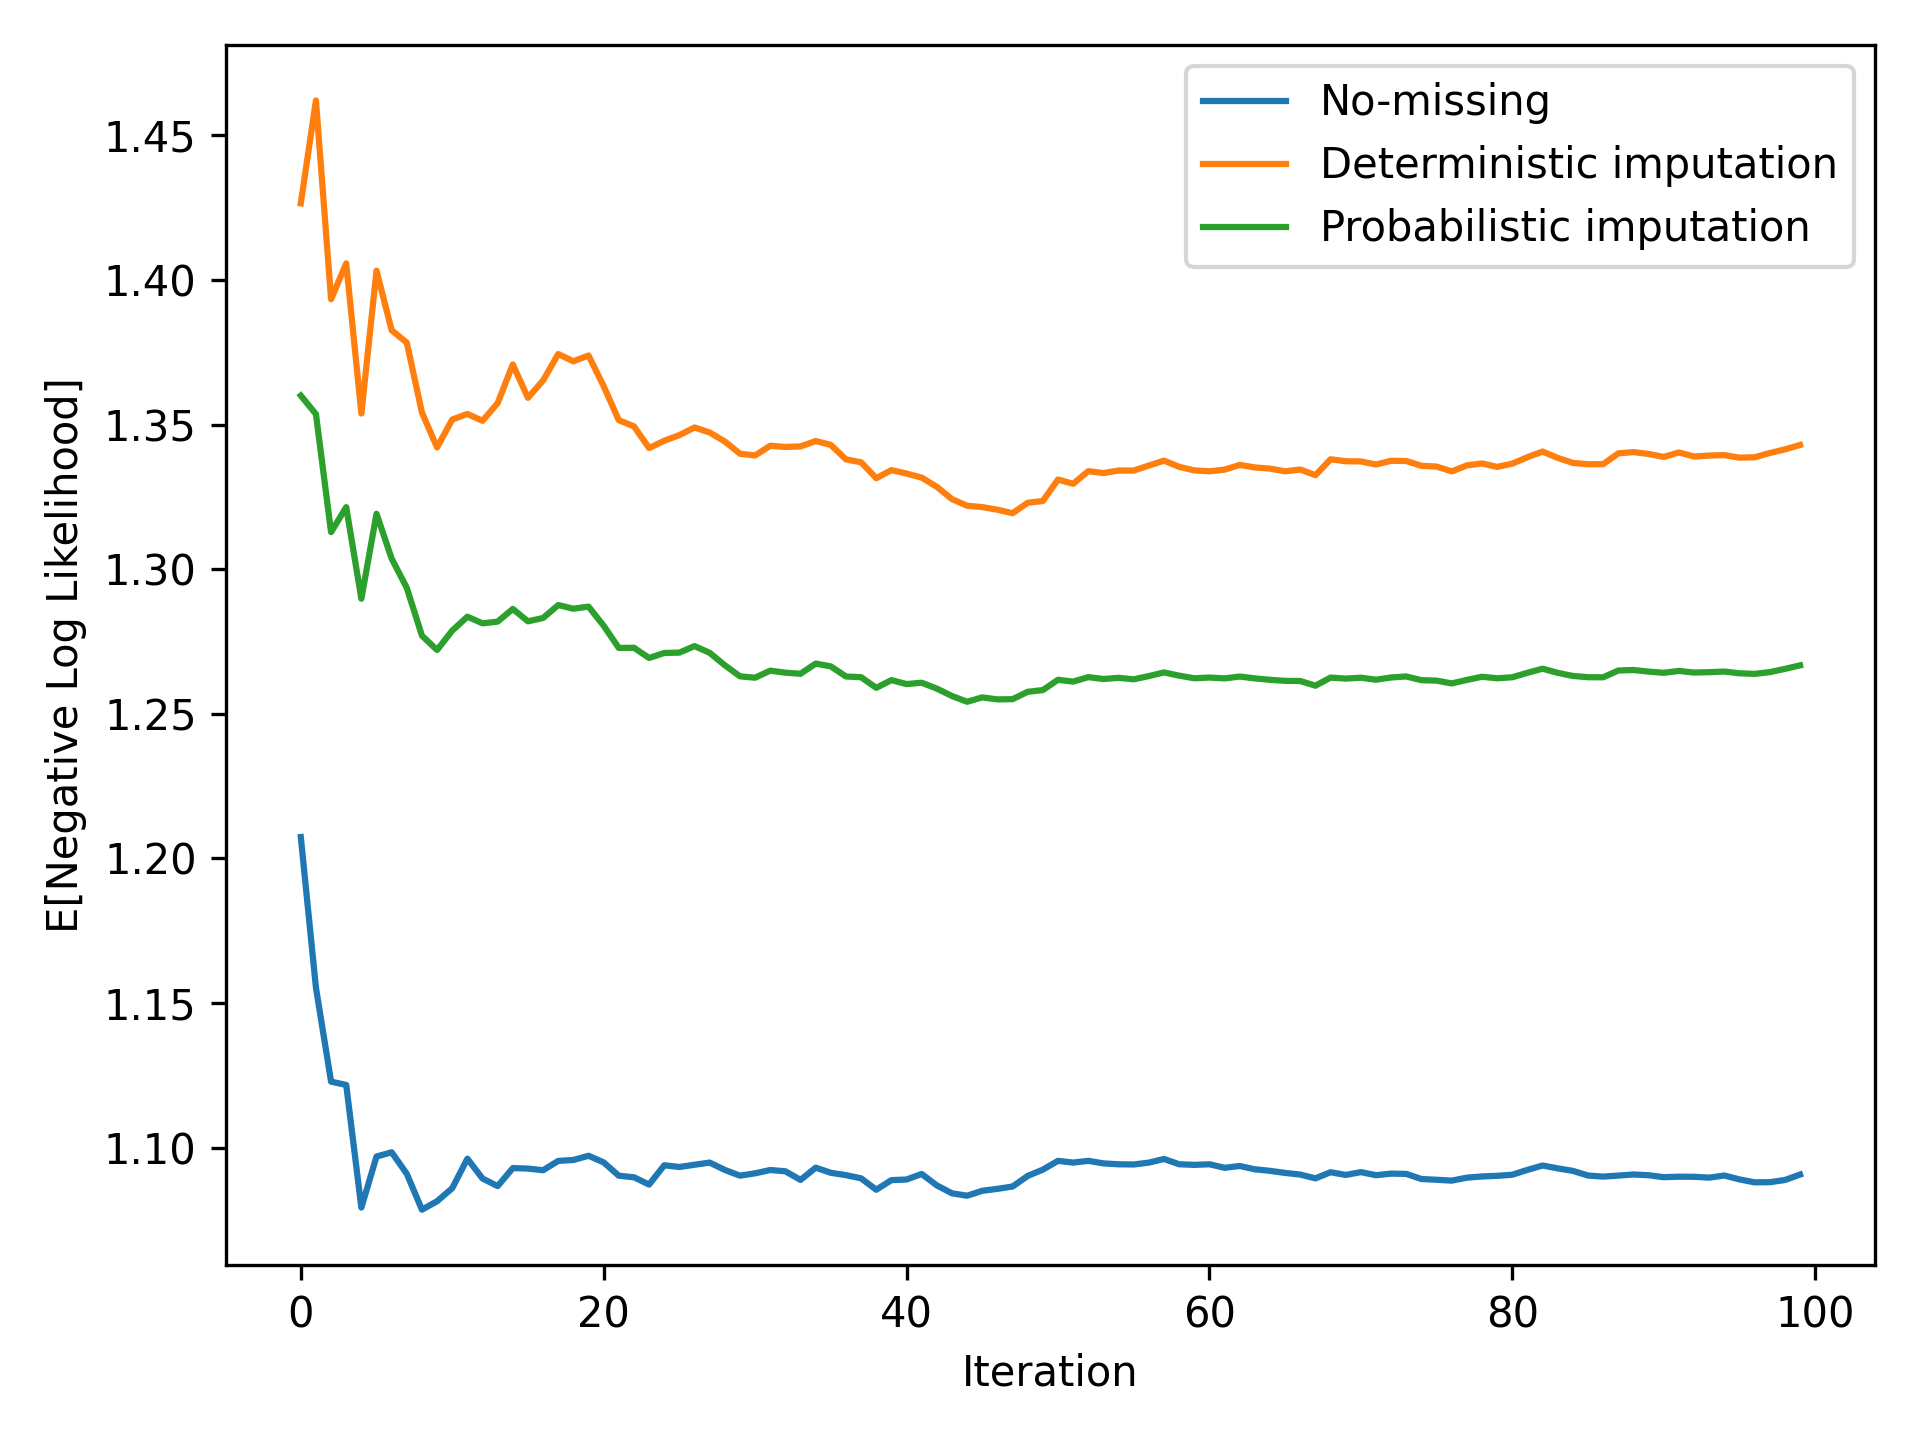
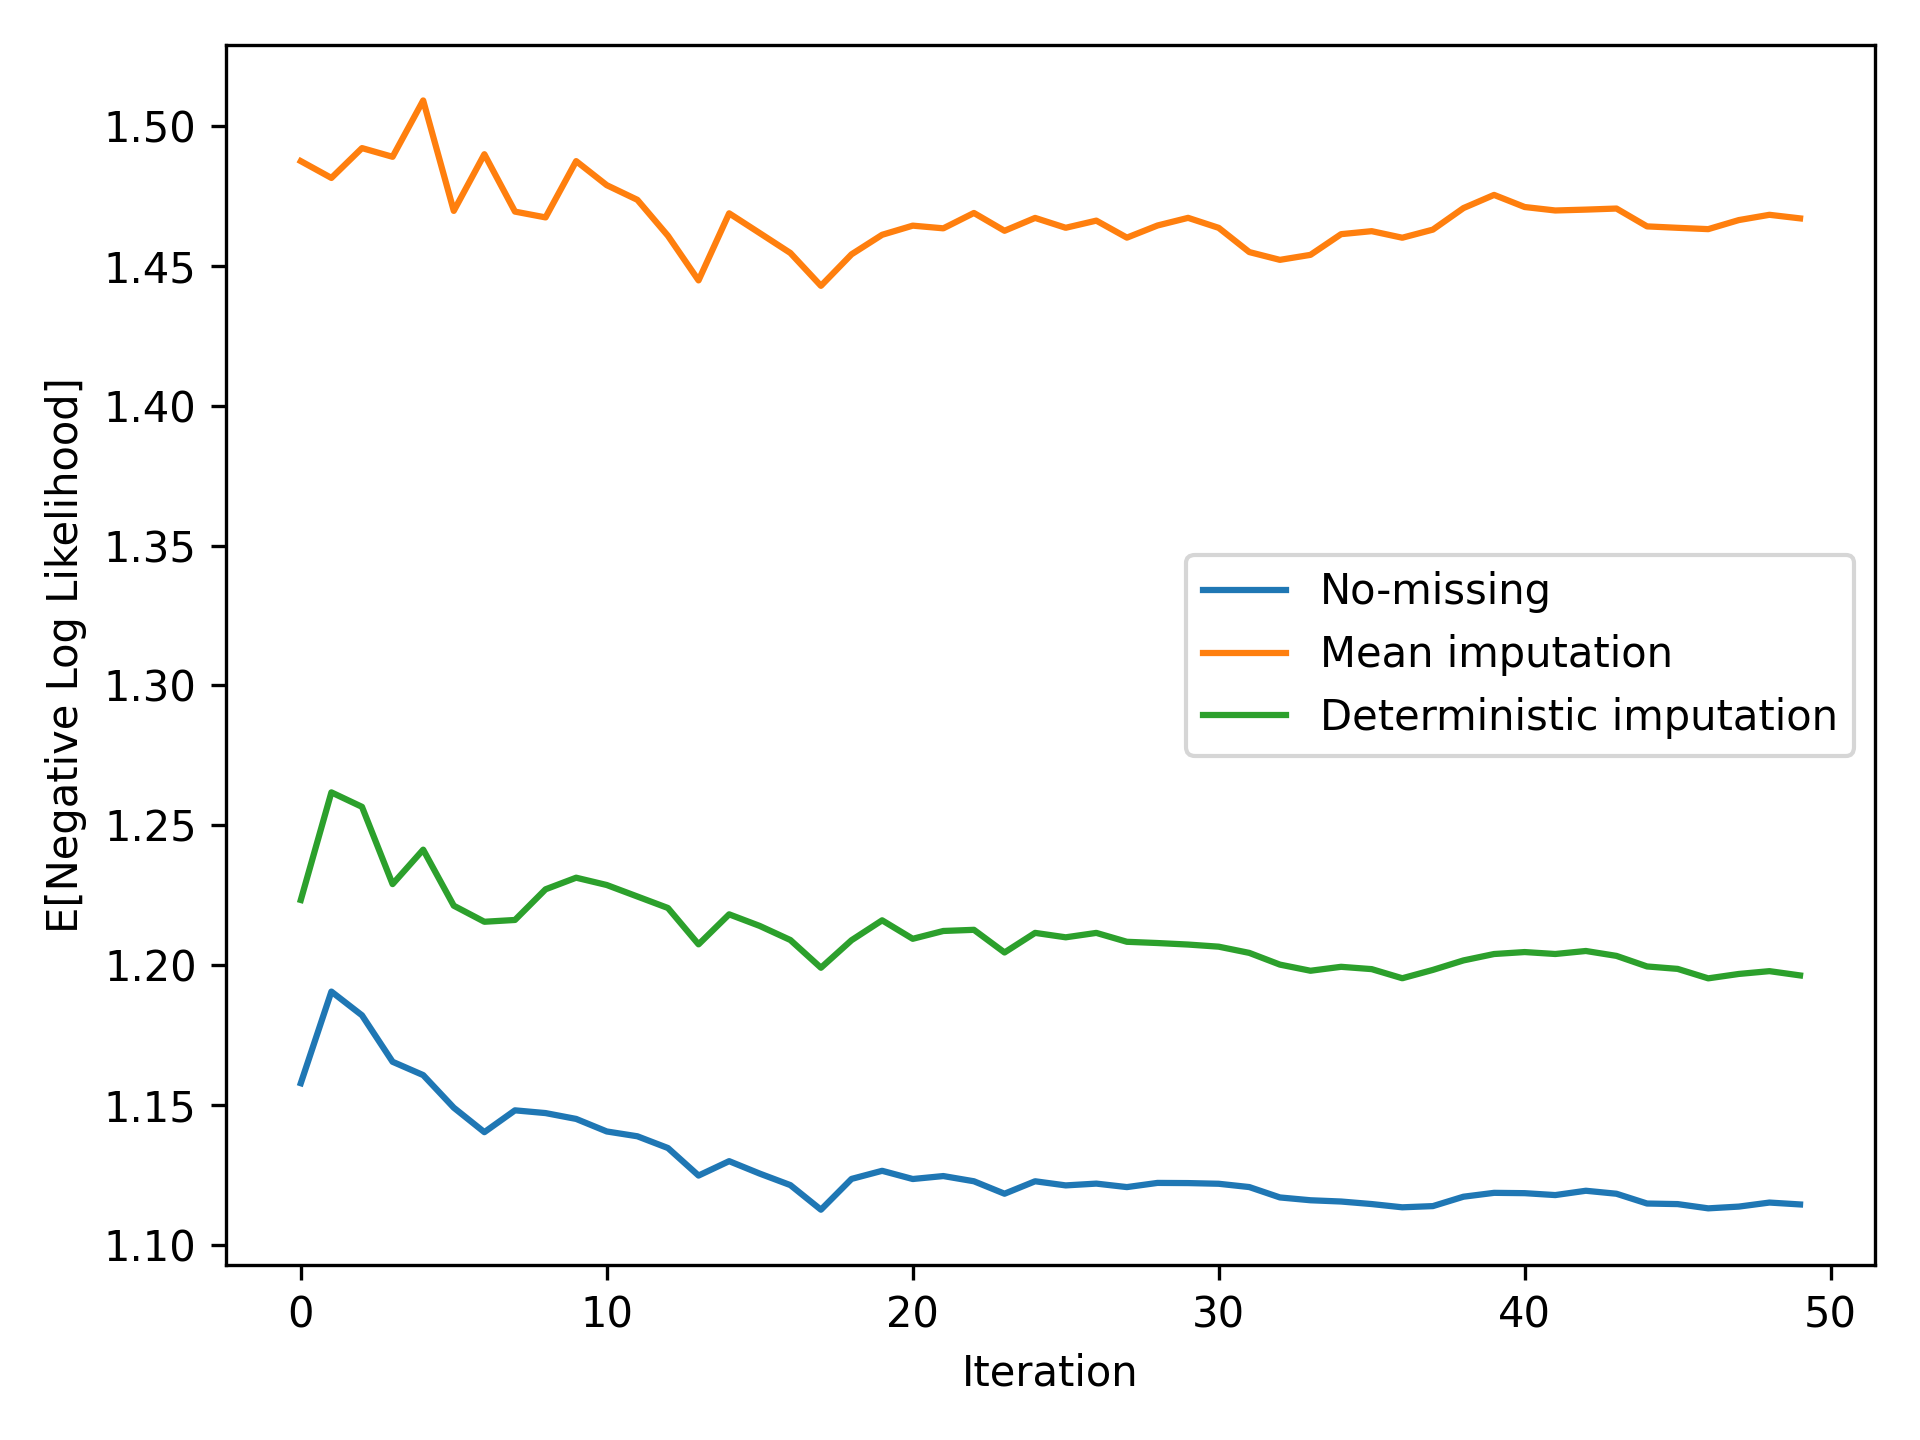
Push latest changes on capricious data streams

diff --git a/analytics/sim13-parallel.py b/analytics/sim13-parallel.py
@@ -35,22 +35,28 @@ if __name__ == "__main__":
     num_feats = len(coeffs)
     payment = 1
 
-    missing_probabilities = np.array([0, 0.5])
+    missing_probabilities = np.array([0.0, 0.5])
 
     imputation_methods = [
         ImputationMethod.no,
         ImputationMethod.mean,
         ImputationMethod.ols,
-        ImputationMethod.blr,
+        # ImputationMethod.blr,
         # ImputationMethod.gpr,
     ]
 
     # @cache(save_dir=cache_location, use_cache=True)
     def _run_experiments():
         def _run_experiment():
-            rho = 0.6
+            rho = 0.9
             X = np.random.multivariate_normal(
-                [0, 0, 0], [[1, 0, 0], [0, 1, rho], [0, rho, 1]], size=sample_size
+                [0, 0, 0],
+                [
+                    [1, 0, 0],
+                    [0, 1, rho],
+                    [0, rho, 1],
+                ],
+                size=sample_size,
             )
 
             X = np.column_stack((np.ones(len(X)).reshape(-1, 1), X))
@@ -90,14 +96,14 @@ if __name__ == "__main__":
         ImputationMethod.no: "No-missing",
         ImputationMethod.mean: "Mean imputation",
         ImputationMethod.ols: "Deterministic imputation",
-        ImputationMethod.blr: "Probabilistic imputation",
+        # ImputationMethod.blr: "Probabilistic imputation",
     }
 
     imputation_methods = [
         ImputationMethod.no,
         ImputationMethod.mean,
         ImputationMethod.ols,
-        ImputationMethod.blr,
+        # ImputationMethod.blr,
         # ImputationMethod.gpr,
     ]
 
@@ -121,7 +127,8 @@ if __name__ == "__main__":
 
     (axs1, axs2) = axs.flatten()[[0, 2]], axs.flatten()[[1, 3]]
 
-    markers = ["*", "o", "s", "x"]
+    markers = ["s", "o", "*", "x"]
+    markevery = 5
 
     metric = "payments"
     for i, method in enumerate(imputation_methods):
@@ -134,13 +141,16 @@ if __name__ == "__main__":
             primary_payments.cumsum(axis=1).mean(axis=0)[:, j] / num_runs,
             label=label_map[method] if j == 0 else "",
             color=f"C{i}",
-            # marker=markers[i],
+            marker=markers[i],
+            markevery=markevery,
         )
         axs.flatten()[1].plot(
-            secondary_payments.cumsum(axis=1).mean(axis=0)[:, j] / num_runs,
+            primary_payments.cumsum(axis=1).mean(axis=0)[:, j] / num_runs
+            + secondary_payments.cumsum(axis=1).mean(axis=0)[:, j] / num_runs,
             label="",
             color=f"C{i}",
-            # marker=markers[i],
+            marker=markers[i],
+            markevery=markevery,
         )
 
         j = 1
@@ -148,13 +158,16 @@ if __name__ == "__main__":
             primary_payments.cumsum(axis=1).mean(axis=0)[:, j] / num_runs,
             label=label_map[method] if j == 0 else "",
             color=f"C{i}",
-            # marker=markers[i],
+            marker=markers[i],
+            markevery=markevery,
         )
         axs.flatten()[3].plot(
-            secondary_payments.cumsum(axis=1).mean(axis=0)[:, j] / num_runs,
+            primary_payments.cumsum(axis=1).mean(axis=0)[:, j] / num_runs
+            + secondary_payments.cumsum(axis=1).mean(axis=0)[:, j] / num_runs,
             label="",
             color=f"C{i}",
-            # marker=markers[i],
+            marker=markers[i],
+            markevery=markevery,
         )
 
         axs.flatten()[0].set_title("Agent 1 (p(missing) = 0)")
@@ -174,7 +187,7 @@ if __name__ == "__main__":
     axs.flatten()[0].legend()
 
     fig.suptitle(
-        "          Primary Market                                                       Secondary Market",
+        "          Primary Market                                                       Total Market",
         y=0.97,
         fontsize=14,
     )

diff --git a/market/impute.py b/market/impute.py
@@ -106,7 +106,10 @@ class RegressionImputer(Imputer):
     def clear_secondary_market(
         self, x: np.ndarray, missing_indicator: np.ndarray, primary_payments: np.ndarray
     ):
+
         payments = np.zeros(self.X_train.shape[1])
+        if np.sum(missing_indicator) == self.market_data.num_support_agent_features:
+            return payments[1 + self.num_central_agent_features :]
         if np.sum(missing_indicator) == 0:  # No missing features
             return payments[1 + self.num_central_agent_features :]
         for i in self._support_agent_indices[missing_indicator]:

diff --git a/market/policy.py b/market/policy.py
@@ -82,6 +82,7 @@ class ShapleyAttributionPolicy:
                 )
 
             marginal_contributions.append(agent_marginal_contributions)
+
         return np.array(marginal_contributions).sum(axis=1)
 
     def run(
